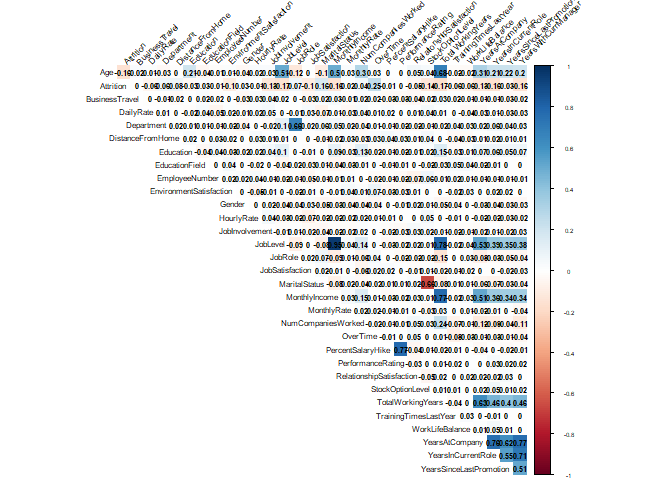
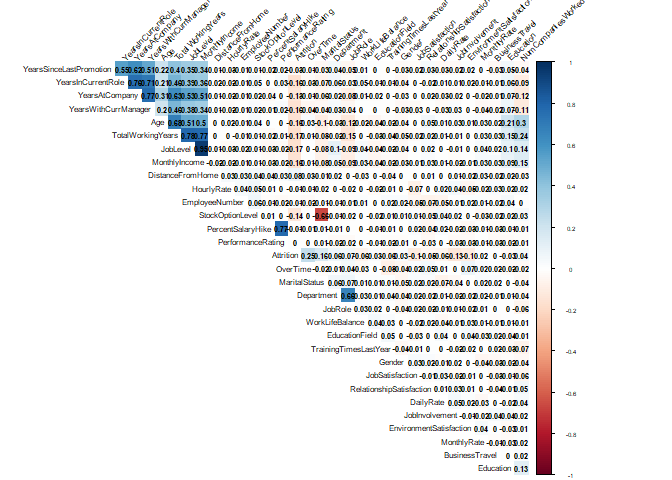
Adjusted bullet points v0.5

Changed region(s): [[0.0312, 0.0, 0.875, 1.0]]

diff --git a/CaseStudy2.md b/CaseStudy2.md
@@ -177,6 +177,7 @@ suppressWarnings(suppressMessages(library(corrplot)))
 par(cex=.5)
 corrplot(as.matrix(Attcor), method="color", 
          type="upper", 
+         order="hclust",
          addCoef.col = "black",
          tl.col="black", tl.srt=45,
          sig.level = 0.05, insig = "blank", 
